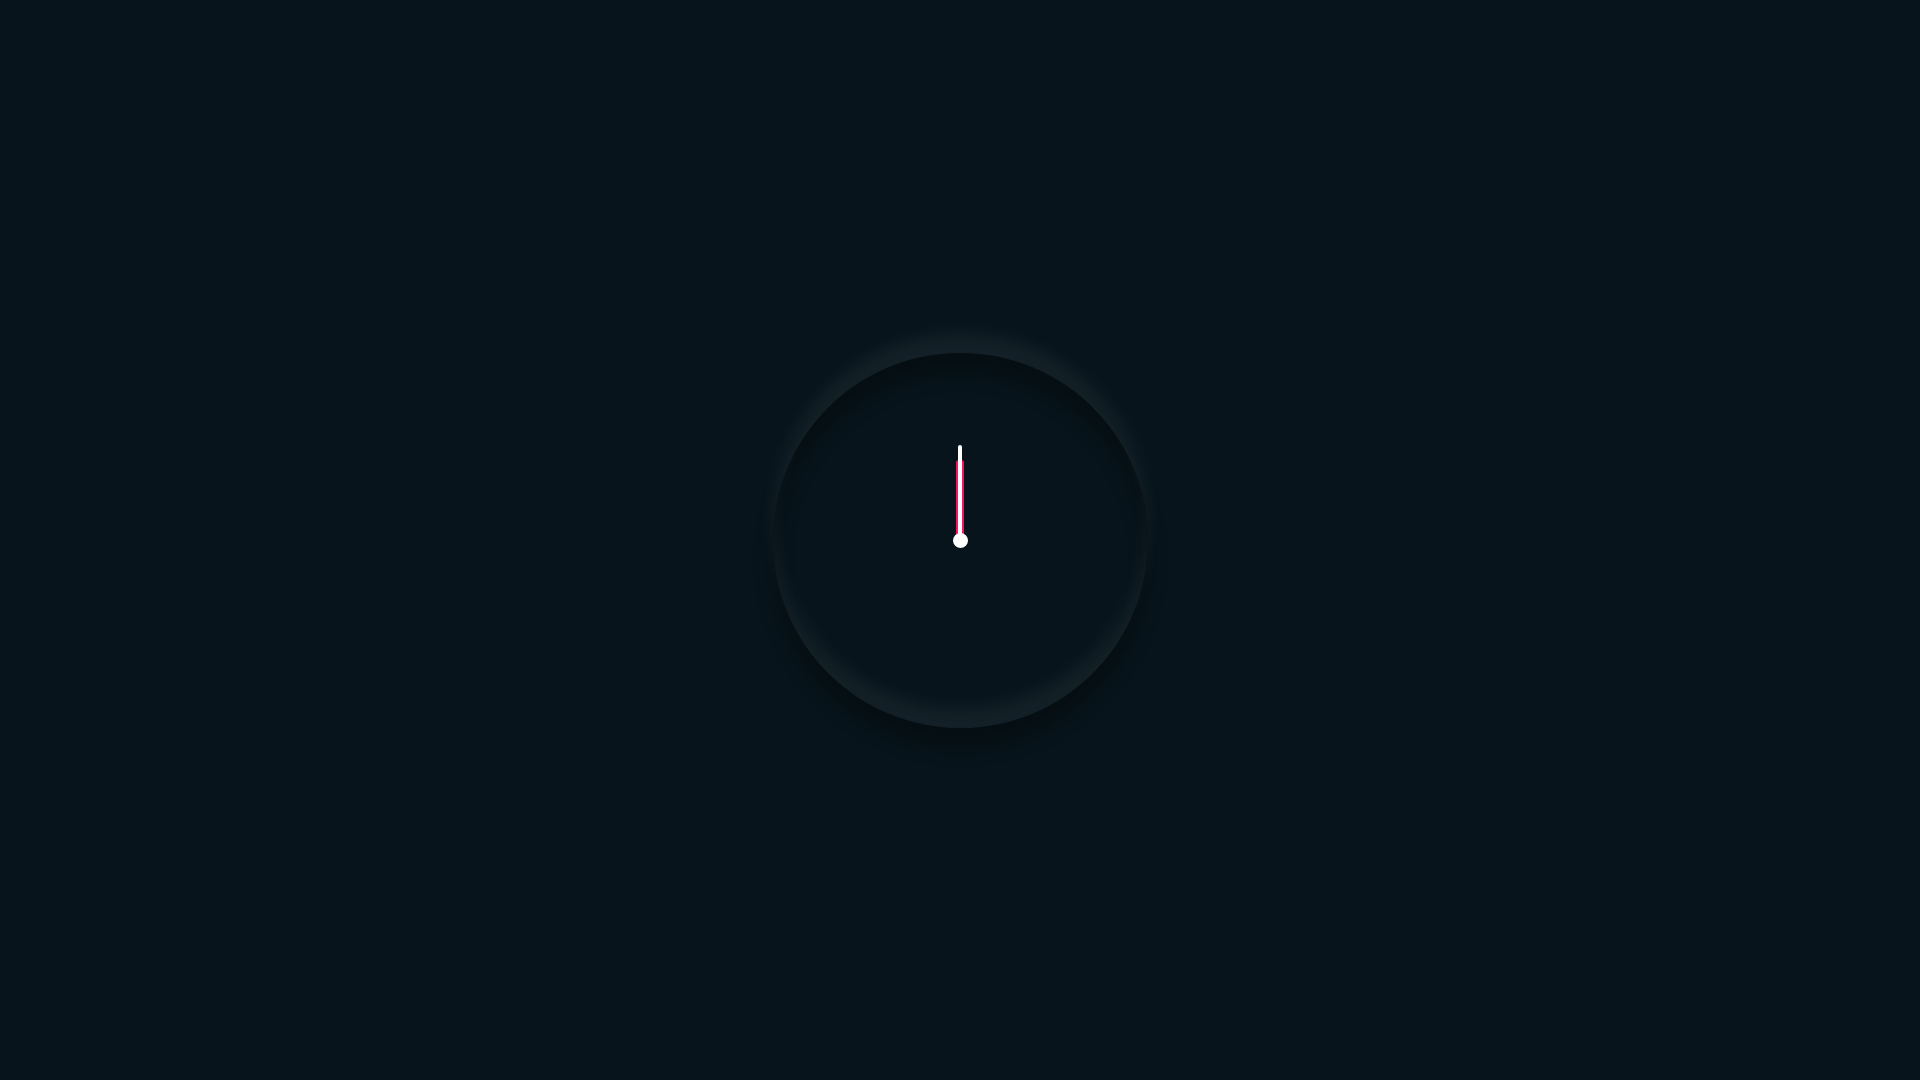
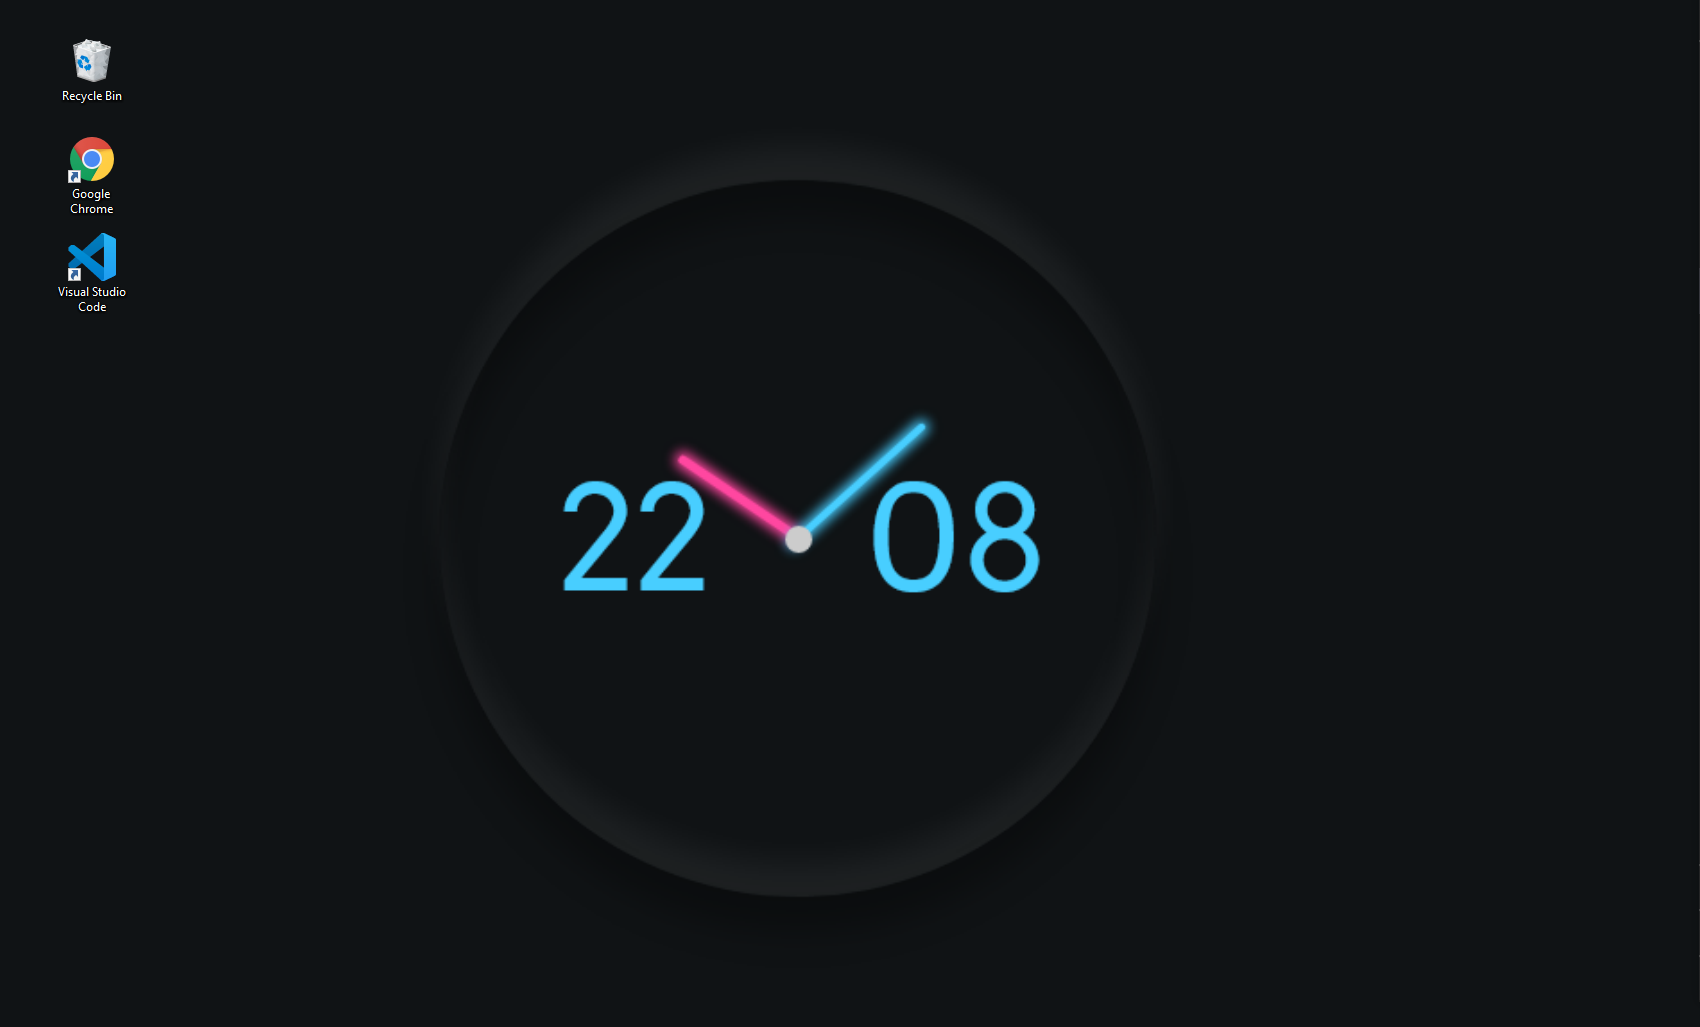
pad with zero

diff --git a/index.html b/index.html
@@ -1,149 +1,152 @@
 <!DOCTYPE html>
 <html lang="en">
-  <head>
-    <meta charset="UTF-8" />
-    <meta name="viewport" content="width=device-width, initial-scale=1.0" />
-    <meta name="Description" content="A JS Clock suitable for wallpaper" />
-    <title>Wallpaper Clock</title>
-    <link
-      href="https://fonts.googleapis.com/css2?family=Arvo&display=swap"
-      rel="stylesheet"
-    />
-    <style>
-      * {
-        margin: 0;
-        padding: 0;
-        box-sizing: border-box;
-      }
 
-      body {
-        display: flex;
-        justify-content: center;
-        align-items: center;
-        min-height: 100vh;
-        background: #101315;
-        width: 1920px;
-        height: 1080px;
-        color: white;
-        font-family: "Arvo", serif;
-      }
+<head>
+  <meta charset="UTF-8" />
+  <meta name="viewport" content="width=device-width, initial-scale=1.0" />
+  <meta name="Description" content="A JS Clock suitable for wallpaper" />
+  <title>Wallpaper Clock</title>
+  <link href="https://fonts.googleapis.com/css2?family=Arvo&display=swap" rel="stylesheet" />
+  <style>
+    * {
+      margin: 0;
+      padding: 0;
+      box-sizing: border-box;
+    }
 
-      .clock {
-        width: 400px;
-        height: 400px;
-        display: flex;
-        justify-content: center;
-        align-items: center;
-        border: 4px;
-        box-shadow: 0em -1.2em 1.2em rgba(255, 255, 255, 0.06),
-          inset 0em -1.2em 1.2em rgba(255, 255, 255, 0.06),
-          0em 1.2em 1.2em rgba(0, 0, 0, 0.3),
-          inset 0em 1.2em 1.2em rgba(0, 0, 0, 0.3);
-        border-radius: 50%;
-      }
+    body {
+      display: flex;
+      justify-content: flex-start;
+      align-items: center;
+      min-height: 100vh;
+      background: #101315;
+      width: 1920px;
+      height: 1080px;
+      color: white;
+      font-family: "Arvo", serif;
+    }
 
-      .clock:before {
-        content: "";
-        position: absolute;
-        width: 15px;
-        height: 15px;
-        background: #ccc;
-        border-radius: 50%;
-        z-index: 100;
-      }
+    .clock {
+      width: 400px;
+      height: 400px;
+      margin-left: 300px;
+      display: flex;
+      justify-content: center;
+      align-items: center;
+      border: 4px;
+      box-shadow: 0em -1.2em 1.2em rgba(255, 255, 255, 0.06),
+        inset 0em -1.2em 1.2em rgba(255, 255, 255, 0.06),
+        0em 1.2em 1.2em rgba(0, 0, 0, 0.3),
+        inset 0em 1.2em 1.2em rgba(0, 0, 0, 0.3);
+      border-radius: 50%;
+    }
 
-      .clock .hour,
-      .clock .min {
-        position: absolute;
-      }
+    .clock:before {
+      content: "";
+      position: absolute;
+      width: 15px;
+      height: 15px;
+      background: #ccc;
+      border-radius: 50%;
+      z-index: 100;
+    }
 
-      .clock .hour,
-      #h {
-        width: 160px;
-        height: 160px;
-      }
+    .clock .hour,
+    .clock .min {
+      position: absolute;
+    }
 
-      .clock .min,
-      #m {
-        width: 190px;
-        height: 190px;
-      }
+    .clock .hour,
+    #h {
+      width: 160px;
+      height: 160px;
+    }
 
-      #h,
-      #m {
-        display: flex;
-        justify-content: center;
-        position: absolute;
-        border-radius: 50%;
-      }
+    .clock .min,
+    #m {
+      width: 190px;
+      height: 190px;
+    }
 
-      #h:before {
-        content: "";
-        position: absolute;
-        width: 5px;
-        height: 80px;
-        background: #ff47a0;
-        box-shadow: 0 0 6px 2px #ff47a0;
-        z-index: 10;
-        border-radius: 2.8px;
-      }
+    #h,
+    #m {
+      display: flex;
+      justify-content: center;
+      position: absolute;
+      border-radius: 50%;
+    }
 
-      #m:before {
-        content: "";
-        position: absolute;
-        width: 3.5px;
-        height: 100px;
-        background: #48ceff;
-        box-shadow: 0 0 6px 2px #48ceff;
-        z-index: 11;
-        border-radius: 3px;
-      }
-      #digital {
-        font-size: 80px;
-        color: #48ceff;
-      }
-      #digital .spacer {
-        display: inline-block;
-        width: 80px;
-      }
-      #digital .digit {
-        display: inline-block;
-        min-width: 100px;
-        text-align: center;
-        border-radius: 10px;
-      }
-    </style>
-  </head>
+    #h:before {
+      content: "";
+      position: absolute;
+      width: 5px;
+      height: 80px;
+      background: #ff47a0;
+      box-shadow: 0 0 6px 2px #ff47a0;
+      z-index: 10;
+      border-radius: 2.8px;
+    }
 
-  <body>
-    <div class="clock">
-      <div class="hour">
-        <div id="h"></div>
-      </div>
+    #m:before {
+      content: "";
+      position: absolute;
+      width: 3.5px;
+      height: 100px;
+      background: #48ceff;
+      box-shadow: 0 0 6px 2px #48ceff;
+      z-index: 11;
+      border-radius: 3px;
+    }
 
-      <div class="min">
-        <div id="m"></div>
-      </div>
-      <div id="digital"></div>
+    #digital {
+      font-size: 80px;
+      color: #48ceff;
+    }
+
+    #digital .spacer {
+      display: inline-block;
+      width: 80px;
+    }
+
+    #digital .digit {
+      display: inline-block;
+      min-width: 100px;
+      text-align: center;
+      border-radius: 10px;
+    }
+  </style>
+</head>
+
+<body>
+  <div class="clock">
+    <div class="hour">
+      <div id="h"></div>
     </div>
-    <script>
-      const $h = document.querySelector("#h");
-      const $m = document.querySelector("#m");
-      const $digital = document.querySelector("#digital");
 
-      const degPerMinute = 6; // angle for one minute
+    <div class="min">
+      <div id="m"></div>
+    </div>
+    <div id="digital"></div>
+  </div>
+  <script>
+    const $h = document.querySelector("#h");
+    const $m = document.querySelector("#m");
+    const $digital = document.querySelector("#digital");
 
-      let now = new Date();
-      let h = now.getHours();
-      let m = now.getMinutes();
+    const degPerMinute = 6; // angle for one minute
 
-      $digital.innerHTML = `<span class="digit">${h}</span><span class="spacer"></span><span class="digit">${m}</span>`;
+    let now = new Date();
+    let h = now.getHours();
+    let m = now.getMinutes();
 
-      let hDeg = h * 30;
-      let mDeg = m * degPerMinute;
+    $digital.innerHTML = `<span class="digit">${h < 10 ? "0" + h : h}</span><span class="spacer"></span><span class="digit">${m < 10 ? "0" + m : m}</span>`;
 
-      $h.style.transform = `rotateZ(${hDeg + mDeg / 12}deg)`;
-      $m.style.transform = `rotateZ(${mDeg}deg)`;
-    </script>
-  </body>
+    let hDeg = h * 30;
+    let mDeg = m * degPerMinute;
+
+    $h.style.transform = `rotateZ(${hDeg + mDeg / 12}deg)`;
+    $m.style.transform = `rotateZ(${mDeg}deg)`;
+  </script>
+</body>
+
 </html>
